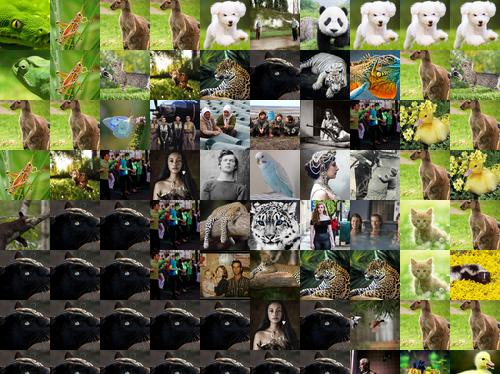
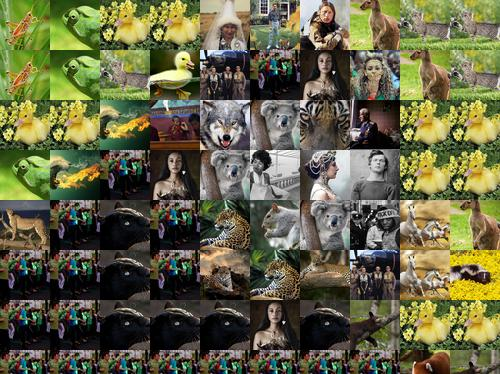
Programm selects a best match image from the closest 2 rgb matched images using wavelet hashing

diff --git a/mosaic.py b/mosaic.py
@@ -11,7 +11,7 @@ def resize_source_image( image ):
   #default dimensions to resize source image to
   source_size = 500,500
   image.thumbnail(source_size, Image.ANTIALIAS)
-  image.show()
+  #image.show()
   return image
 
 ##################
@@ -47,7 +47,6 @@ def calc_average_rgb(image, is_block):
 ##################
 def calc_image_hash(image):
   hash1 = imagehash.whash(image)
-  #print hash1
   return hash1
 
 ##################
@@ -84,36 +83,13 @@ def hash_diff( x , y ):
 #returns closest tile to block
 ##################
 def closest_tile(tile_rgb_averages, block_rgb_average, vary_tiles):
-  sorted_rgb_values = sorted(tile_rgb_averages, key=lambda x:distance(x, block_rgb_average))
+  sorted_rgb_values = sorted(tile_rgb_averages.keys(), key=lambda x:distance(x, block_rgb_average))
+
   if vary_tiles:
     return sorted_rgb_values[randint(0, 1)]
   else:
-    return sorted_rgb_values[0]
-
-##################
-#returns closest tile to block given database images
-##################
-def closest_tile_db(db_tiles, block_rgb_average, vary_tiles):
-  tile_rgb_averages = []
-  for tile in db_tiles:
-    tile_rgb_averages.append((tile[1], tile[2], tile[3]))
-
-  sorted_rgb_values = sorted(tile_rgb_averages, key=lambda x:distance(x, block_rgb_average))
-  if vary_tiles:
-    return sorted_rgb_values[randint(0, 1)]
-  else:
-    return sorted_rgb_values[0]
+    return sorted_rgb_values[:2] #experiment with 3 closest rgb matches
   
-##################
-#returns closest tile to block based on hash value
-##################
-def closest_tile_hashing(tile_hashes, block_hash, vary_tiles):
-  sorted_rgb_values = sorted(tile_hashes, key=lambda x:hash_diff(x, block_hash))
-  if vary_tiles:
-    return sorted_rgb_values[randint(0, 1)]
-  else:
-    return sorted_rgb_values[0]
-
 ##################
 #main method - construct mosaic from tiles in library
 ##################
@@ -135,9 +111,8 @@ def create_mosaic(source_image, input_tile_size, outlier_flagging, vary_tiles):
   db.commit()
   db.close()
 
-  #HASHING CODE
   #Key = hash, Value = Image
-  #tile_hashes = {}
+  tile_hashes = {}
 
   #Key = RGB, Value = Image
   tile_rgb_averages = {} 
@@ -154,13 +129,12 @@ def create_mosaic(source_image, input_tile_size, outlier_flagging, vary_tiles):
 
     tile_rgb_averages[((db_tiles[i])[1], (db_tiles[i])[2], (db_tiles[i])[3])] = t
 
-  #HASHING CODE
-  #tile_hashes[calc_image_hash(t)] =l t
-
   #Key = Coordinate in Source, Value = RGB
   block_rgb_dict = {}
   #Key = Coordinate in Source, Value = hash
   block_hash_dict = {}
+
+  #divide source image into blocks
   cropped_image_xy = divide_image_into_blocks(target_image, tile_size, block_rgb_dict, block_hash_dict)
 
   #create base mosaic image of default dimensions
@@ -175,25 +149,30 @@ def create_mosaic(source_image, input_tile_size, outlier_flagging, vary_tiles):
 
   print 'Creating mosaic...'
   for i in range(0, len(block_rgb_dict.keys()), 1):
-    #find closest colour tile in library to this specific block
-    tile_rgb_to_replace_block = closest_tile(tile_rgb_averages.keys(), block_rgb_dict.values()[i], vary_tiles)
+    #find closest colour tiles in library to this specific block
+    closest_rgb_matches = closest_tile(tile_rgb_averages, block_rgb_dict.values()[i], vary_tiles)
 
-    #HASHING CODE
-    #tile_rgb_to_replace_block = closest_tile_hashing(tile_hashes.keys(), block_hash_dict.values()[i], vary_tiles)
+    #perform wavelet analysis on the matches to pick the best
+    closest_hashes = {}
+    for rgb in closest_rgb_matches:
+      closest_hashes[calc_image_hash(tile_rgb_averages[rgb])] = rgb
+    hash_diffs = {}
+    for h in closest_hashes.keys():
+      hash_diffs[h - block_hash_dict.values()[i]] = h
+
+    final_hash = hash_diffs[min(hash_diffs)]
+    final_rgb = closest_hashes[final_hash]
 
     #flag up when there isn't a close tile match, indicating we need a better library image
     #50 is a magic number, how do we determine where that comes from?
-    if outlier_flagging & (distance(tile_rgb_to_replace_block, block_rgb_dict.values()[i]) > 50):
+    if outlier_flagging & (distance(final_rgb, block_rgb_dict.values()[i]) > 50):
       print 'Distance between block: ', block_rgb_dict.keys()[i], 'and its tile is greater than 50'
     else:
       #resize and paste tile into place in output mosaic image
-      if tile_rgb_averages[tile_rgb_to_replace_block].size != tile_size:
-        tile_rgb_averages[tile_rgb_to_replace_block] = ImageOps.fit(tile_rgb_averages.get(tile_rgb_to_replace_block), tile_size, Image.ANTIALIAS)
+      if tile_rgb_averages[final_rgb].size != tile_size:
+        tile_rgb_averages[final_rgb] = ImageOps.fit(tile_rgb_averages.get(final_rgb), tile_size, Image.ANTIALIAS)
       
-      mosaic.paste(tile_rgb_averages[tile_rgb_to_replace_block], (x_offset,y_offset))
-    
-    #HASHING CODE
-    #mosaic.paste(tile_hashes.get(tile_rgb_to_replace_block), (x_offset,y_offset))
+      mosaic.paste(tile_rgb_averages[final_rgb], (x_offset,y_offset))
 
     #sets the point to place the next tile
     if y_offset < cropped_image_xy[1]:
@@ -208,8 +187,8 @@ def create_mosaic(source_image, input_tile_size, outlier_flagging, vary_tiles):
       print "Progress: ", progress_percentage, "%"
 
   os.path.splitext(source_image)[0]
-  mosaic.save('/home/mbax4sd2/3rd Year Project/output/%s%smosaic.jpg' % (os.path.splitext(source_image)[1], input_tile_size)) 
-  mosaic.show()
+  mosaic.save('/home/mbax4sd2/3rd Year Project/output/%s%smosaic.jpg' % (os.path.splitext(source_image)[0][14:], input_tile_size)) 
+  #mosaic.show()
 
   end = time.time()
   print 'Time elapsed: ', end - start

diff --git a/createallmosaics.py b/createallmosaics.py
@@ -3,17 +3,17 @@ import sys
 import commands
 
 def create_mosaics( argument ):
-  commands.getstatusoutput('python makemosaic.py monkey.jpg 50 ' + argument)
-  commands.getstatusoutput('python makemosaic.py monkey.jpg 20 ' + argument)
-  commands.getstatusoutput('python makemosaic.py monkey.jpg 10 ' + argument)
-  commands.getstatusoutput('python makemosaic.py monkey.jpg 5 ' + argument)
-  commands.getstatusoutput('python makemosaic.py me.jpg 50 ' + argument)
-  commands.getstatusoutput('python makemosaic.py me.jpg 20 ' + argument)
-  commands.getstatusoutput('python makemosaic.py me.jpg 10 ' + argument)
-  commands.getstatusoutput('python makemosaic.py me.jpg 5 ' + argument)
-  commands.getstatusoutput('python makemosaic.py rainbow.jpg 50 ' + argument)
-  commands.getstatusoutput('python makemosaic.py rainbow.jpg 20 ' + argument)
-  commands.getstatusoutput('python makemosaic.py rainbow.jpg 10 ' + argument)
-  commands.getstatusoutput('python makemosaic.py rainbow.jpg 5 ' + argument)
+  commands.getstatusoutput('python makemosaic.py source_images/monkey.jpg 50 ' + argument)
+  commands.getstatusoutput('python makemosaic.py source_images/monkey.jpg 20 ' + argument)
+  commands.getstatusoutput('python makemosaic.py source_images/monkey.jpg 10 ' + argument)
+  commands.getstatusoutput('python makemosaic.py source_images/monkey.jpg 5 ' + argument)
+  commands.getstatusoutput('python makemosaic.py source_images/me.jpg 50 ' + argument)
+  commands.getstatusoutput('python makemosaic.py source_images/me.jpg 20 ' + argument)
+  commands.getstatusoutput('python makemosaic.py source_images/me.jpg 10 ' + argument)
+  commands.getstatusoutput('python makemosaic.py source_images/me.jpg 5 ' + argument)
+  commands.getstatusoutput('python makemosaic.py source_images/rainbow.jpg 50 ' + argument)
+  commands.getstatusoutput('python makemosaic.py source_images/rainbow.jpg 20 ' + argument)
+  commands.getstatusoutput('python makemosaic.py source_images/rainbow.jpg 10 ' + argument)
+  commands.getstatusoutput('python makemosaic.py source_images/rainbow.jpg 5 ' + argument)
 
 create_mosaics('')
